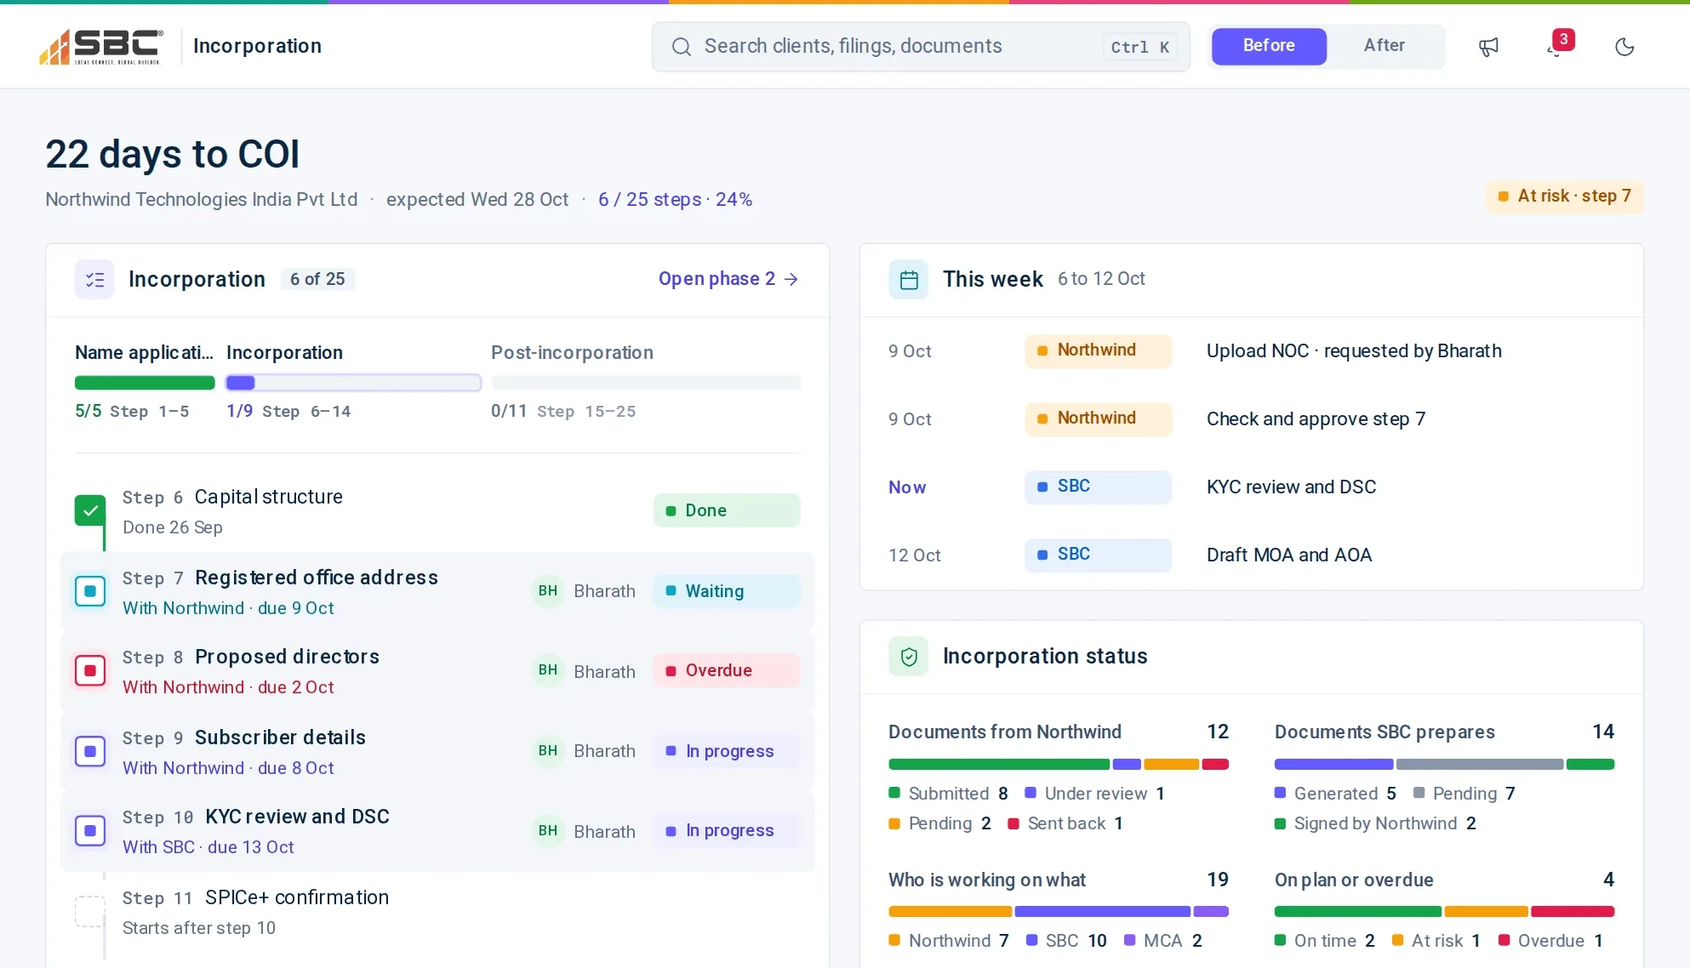
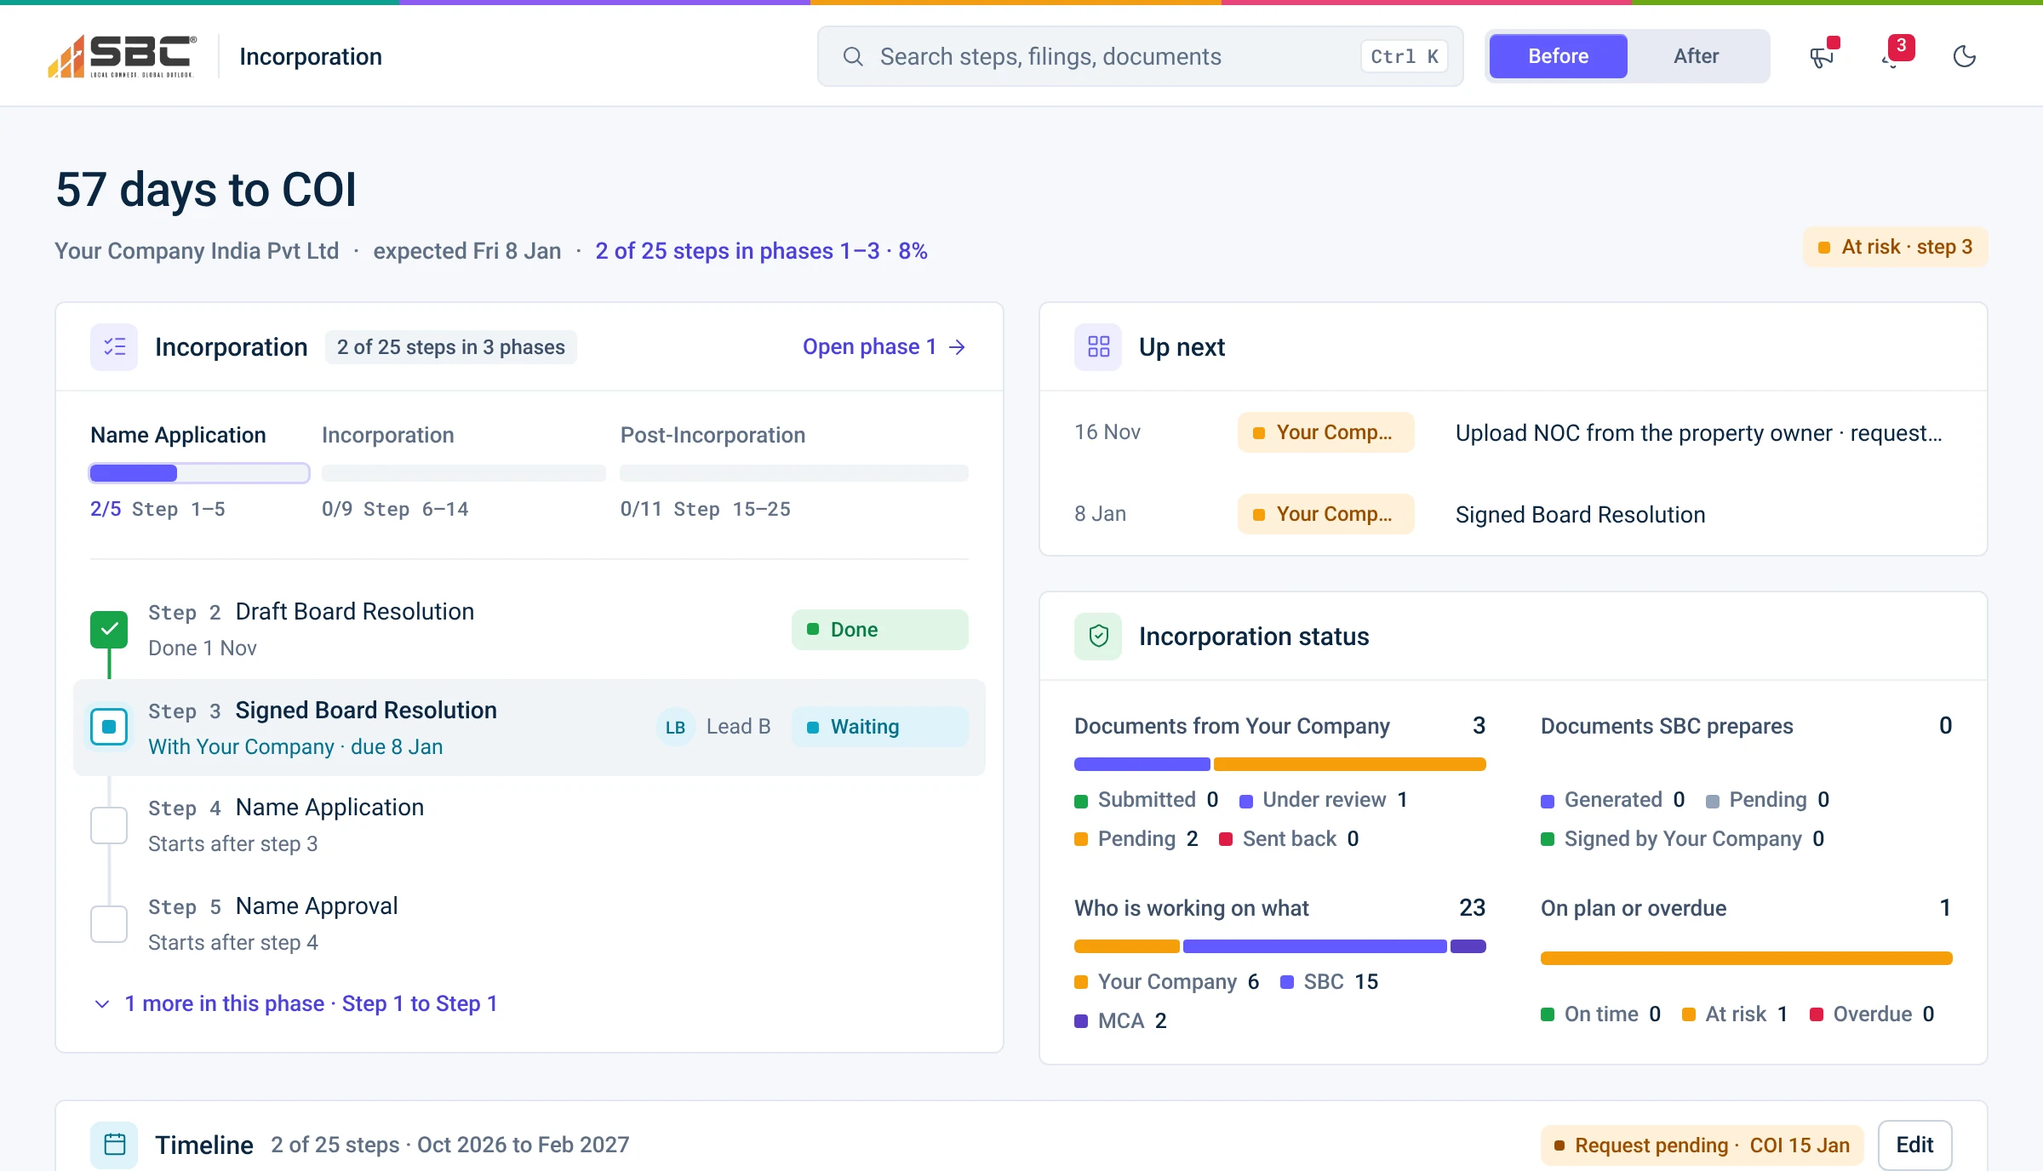
landing page /chandu (#63)
* Landing: remove only the screenshots, keep every section and animation

LP-02 had also removed six sections and rewritten copy. This restores the
incorporation, first 180 days, registrations, compliance calendar, portals
and Ask VCFO sections, the original copy and the hero chips, and removes
only the ten product screenshots. The hero keeps the animated picture in
place of its screenshot; the portal tab descriptions become the tab panels;
the calendar figures and Ask VCFO read as text. LP-01 and LP-03 are kept.

Claude-Session: https://claude.ai/code/session_01KHc5oRkLUo2v3QsnkyYsqN

* Landing: revert LP-01 and LP-03, remove only the screenshots

The owner wants the live landing with only the screenshots removed. This
reverts the light theme and toggle (LP-01) and the per-word hero scenes
(LP-03), and drops the abstract hero picture, so the page keeps its dark
theme and the hero frame stays at its size, empty, with its chips.

Claude-Session: https://claude.ai/code/session_01KHc5oRkLUo2v3QsnkyYsqN

* Landing: put back the FAQ sentence as it reads on the live page

Claude-Session: https://claude.ai/code/session_01KHc5oRkLUo2v3QsnkyYsqN

* Landing: bring the screenshots back without the side navigation

The ten product screenshots return to the landing page as they were on the
live site. The staff sidebar is cropped out of the nine portal screenshots:
the left 17.25% is removed and the bottom trimmed by the same share, so each
[…]

diff --git a/src/components/marketing/landing/LandingScreen.tsx b/src/components/marketing/landing/LandingScreen.tsx
@@ -158,7 +158,7 @@ export function LandingScreen({ fontClass = "" }: { fontClass?: string }) {
             <div className="float float-a" data-app="filings" aria-label="Book a demo to see the filings screen" role="button" aria-haspopup="dialog" tabIndex={0}><span className="pill pill-positive">Filed</span><span className="t"><span>GSTR-3B, September</span><span className="mono">Acknowledgement attached</span></span></div>
             <div className="float float-b" data-app="inc-step-7" aria-label="Book a demo to see step 7, registered office address" role="button" aria-haspopup="dialog" tabIndex={0}><span className="pill pill-highlight">Needs you</span><span className="t"><span>Utility bill for the office</span><span className="mono">Due 9 Oct</span></span></div>
             <div className="frame" data-app="incorporation" aria-label="Book a demo to see the incorporation screen" role="button" aria-haspopup="dialog" tabIndex={0}>
-              <img src="/landing/hero-incorporation.webp" alt="VCFO Suite client portal, incorporation view for Northwind Technologies India Pvt Ltd: 22 days to the Certificate of Incorporation, 6 of 25 steps done, the current steps with who holds each one, this week's tasks and the incorporation status." width="1986" height="1138" fetchPriority="high" />
+              <img src="/landing/hero-incorporation.webp" alt={"VCFO Suite client portal, incorporation view: days to the Certificate of Incorporation, steps done, the current steps with who holds each one, what is up next and the incorporation status."} width="2400" height="1376" fetchPriority="high" />
             </div>
           </div>
         </div>
@@ -426,17 +426,17 @@ export function LandingScreen({ fontClass = "" }: { fontClass?: string }) {
             <div className="reveal">
               <h3 className="h3">The same year, inside the portal</h3>
               <div className="frame" data-app="compliances" aria-label="Book a demo to see the compliance calendar" role="button" aria-haspopup="dialog" tabIndex={0}>
-                <img src="/landing/calendar-client.webp" alt="Client compliance calendar for Northwind Technologies: October grid with TDS, GST, PF and ESI dates, the next deadline GSTR-1 in 3 days, and the coming-up list with status words." width="1655" height="948" />
+                <img src="/landing/calendar-client.webp" alt={"Compliance calendar month view: a grid of the month with each statutory filing on its due date."} width="2268" height="1258" />
               </div>
               <p className="caption"><span className="icon"><Ic><path d="M8 2v3" /><path d="M16 2v3" /><rect x="3" y="3" width="18" height="18" rx="2" /><path d="M3 9h18" /><path d="M8 13h.01" /><path d="M12 13h.01" /><path d="M16 13h.01" /><path d="M8 17h.01" /><path d="M12 17h.01" /><path d="M16 17h.01" /></Ic></span>What the client sees: one month at a time, filtered by regulator, with the next deadline counting down and every filing after it in a list.</p>
             </div>
             <div className="cal-two reveal">
               <figure className="card" data-stagger style={st("--i:0")}>
-                <div className="frame" data-app="filings" aria-label="Book a demo to see the filings screen" role="button" aria-haspopup="dialog" tabIndex={0}><img src="/landing/filings-client.webp" alt="Client filings view for a quarter: donut of filed, due soon, overdue and upcoming, bars by area, and a table with due date, filing, frequency, status and proof." width="1324" height="606" /></div>
+                <div className="frame" data-app="filings" aria-label="Book a demo to see the filings screen" role="button" aria-haspopup="dialog" tabIndex={0}><img src="/landing/filings-client.webp" alt={"Client filings view: filings by month for the financial year, progress by area, and each filing with its status and acknowledgement."} width="2000" height="1622" /></div>
                 <figcaption><b>Filings, with proof.</b> Each row carries its due date, frequency, status word and the acknowledgement once filed. Overdue is a word in red, never a surprise.</figcaption>
               </figure>
               <figure className="card" data-stagger style={st("--i:1")}>
-                <div className="frame" data-app="lead-compliances" aria-label="Book a demo to see the project lead calendar" role="button" aria-haspopup="dialog" tabIndex={0}><img src="/landing/calendar-lead.webp" alt="Project lead's statutory calendar: October deadlines listed by day across GST, income tax and labour, with a month picker and a legend by regulator." width="1324" height="759" /></div>
+                <div className="frame" data-app="lead-compliances" aria-label="Book a demo to see the project lead calendar" role="button" aria-haspopup="dialog" tabIndex={0}><img src="/landing/calendar-lead.webp" alt={"Project lead's compliance calendar month view: the statutory filings of every company on their due dates."} width="1556" height="1262" /></div>
                 <figcaption><b>The firm&apos;s side.</b> The project lead sees every statutory date across every company, grouped by day, with a reminder button on each.</figcaption>
               </figure>
             </div>
@@ -508,19 +508,19 @@ export function LandingScreen({ fontClass = "" }: { fontClass?: string }) {
             </div>
             <div className="tabpanel">
               <div className="frame" role="tabpanel" id="panel-client" aria-labelledby="tab-client" hidden={tab !== "client"} data-app="home">
-                <img src="/landing/portal-client.webp" alt="Client portal home for Northwind Technologies India Pvt Ltd: the home card with five numbers, the incorporation steps with who holds each one, what is needed from Northwind and the timeline." width="1655" height="948" />
+                <img src="/landing/portal-client.webp" alt={"Client portal home: the current stage, the next step with its due date, the journey as a line of steps, and what is needed from the client."} width="2000" height="1146" />
               </div>
               <div className="frame" role="tabpanel" id="panel-lead" aria-labelledby="tab-lead" hidden={tab !== "lead"} data-app="lead-home">
-                <img src="/landing/portal-lead.webp" alt="Project lead Today screen for Bharath: the home card with five numbers, the action queue by company, the inbox and phase progress." width="1655" height="948" />
+                <img src="/landing/portal-lead.webp" alt={"Project lead Today screen: the home card with five numbers, the day's work by company and the inbox."} width="2000" height="1146" />
               </div>
               <div className="frame" role="tabpanel" id="panel-manager" aria-labelledby="tab-manager" hidden={tab !== "manager"} data-app="mgr-home">
-                <img src="/landing/portal-manager.webp" alt="Manager Today screen for Pranay: the home card with five numbers, team tasks with filters, approvals, the task status donut and workload by project lead." width="1655" height="948" />
+                <img src="/landing/portal-manager.webp" alt={"Manager Today screen: the home card with five numbers and the team's day, overdue work first."} width="2000" height="1146" />
               </div>
               <div className="frame" role="tabpanel" id="panel-admin" aria-labelledby="tab-admin" hidden={tab !== "admin"} data-app="admin-home">
-                <img src="/landing/portal-admin.webp" alt="Admin Today screen for Krishna: the home card, the practice areas, fourteen clients with their stage, manager and health, and the managers' load." width="1655" height="948" />
+                <img src="/landing/portal-admin.webp" alt={"Admin Today screen: clients, incorporating, in compliance, overdue and not on track, and the day's work across the firm."} width="2000" height="1146" />
               </div>
               <div className="frame" role="tabpanel" id="panel-super" aria-labelledby="tab-super" hidden={tab !== "super"} data-app="super-home">
-                <img src="/landing/portal-super.webp" alt="Super admin overview for Mithilesh: the home card with the firm's numbers, the practice areas side by side, top risks and clients needing attention." width="1655" height="948" />
+                <img src="/landing/portal-super.webp" alt={"Super admin overview: the firm's numbers, incorporation progress, registrations and this month's compliances."} width="2000" height="1146" />
               </div>
             </div>
           </div>
@@ -533,7 +533,7 @@ export function LandingScreen({ fontClass = "" }: { fontClass?: string }) {
           <div className="ask">
             <div className="reveal">
               <div className="panel" data-app="home-chat" aria-label="Book a demo to try Ask VCFO" role="button" aria-haspopup="dialog" tabIndex={0}>
-                <img src="/landing/ask-vcfo.webp" alt="Ask VCFO panel inside the client portal, answering from Northwind's project data, with suggested questions." width="779" height="1150" />
+                <img src="/landing/ask-vcfo.webp" alt={"Ask VCFO panel inside the client portal, answering from the client's own project data, with suggested questions."} width="760" height="1120" />
               </div>
             </div>
             <div className="reveal">

diff --git a/src/components/marketing/landing/landing.css b/src/components/marketing/landing/landing.css
@@ -72,8 +72,8 @@ html:has(.lp) { scroll-behavior: smooth; -webkit-text-size-adjust: 100%; overflo
 .lp .lead { font-size: 19px; line-height: 1.55; color: var(--lp-ink-muted); max-width: 56ch; }
 .lp .body { font-size: 16px; line-height: 1.65; color: var(--lp-ink-muted); max-width: 58ch; }
 .lp .mono { font-family: var(--lp-font-mono); font-size: 11px; font-weight: 500; letter-spacing: 0.06em; text-transform: uppercase; color: var(--lp-ink-faint); }
-.lp .section { position: relative; padding: 112px 0; overflow-x: clip; scroll-margin-top: 68px; }
-.lp .section-head { margin-bottom: 56px; }
+.lp .section { position: relative; padding: 72px 0; overflow-x: clip; scroll-margin-top: 68px; }
+.lp .section-head { margin-bottom: 40px; }
 .lp .section-head .body { margin-top: 18px; }
 .lp .stage { display: inline-flex; align-items: center; gap: 10px; height: 28px; padding: 0 12px 0 6px; border-radius: 999px; border: 1px solid var(--lp-line-soft); background: var(--lp-raised); font-size: 12px; font-weight: 600; color: var(--lp-ink-muted); margin-bottom: 20px; }
 .lp .stage b { display: inline-flex; align-items: center; justify-content: center; width: 18px; height: 18px; border-radius: 999px; background: var(--lp-brand); color: var(--lp-on-brand); font-family: var(--lp-font-mono); font-size: 11px; font-weight: 500; }
@@ -195,8 +195,8 @@ html:has(.lp) { scroll-behavior: smooth; -webkit-text-size-adjust: 100%; overflo
 }
 .lp .story { display: grid; grid-template-columns: minmax(0, 5fr) minmax(0, 7fr); gap: 64px; align-items: start; }
 .lp .story-steps { display: grid; gap: 8px; }
-.lp .story-step { padding: 28px 0 28px 28px; border-left: 2px solid var(--lp-line); min-height: 52vh; display: flex; flex-direction: column; justify-content: center; transition: border-color 300ms ease; }
-.lp .story-step:first-child { min-height: 40vh; }
+.lp .story-step { padding: 28px 0 28px 28px; border-left: 2px solid var(--lp-line); min-height: 34vh; display: flex; flex-direction: column; justify-content: center; transition: border-color 300ms ease; }
+.lp .story-step:first-child { min-height: 24vh; }
 .lp .story-step .h3 { color: var(--lp-ink-faint); transition: color 300ms ease; font-size: 22px; letter-spacing: -0.01em; }
 .lp .story-step p { margin-top: 10px; font-size: 15px; line-height: 1.6; color: var(--lp-ink-faint); max-width: 44ch; transition: color 300ms ease; }
 .lp .story-step .whos { display: flex; gap: 6px; margin-top: 14px; opacity: 0.45; transition: opacity 300ms ease; }
@@ -396,6 +396,10 @@ html:has(.lp) { scroll-behavior: smooth; -webkit-text-size-adjust: 100%; overflo
 }
 .lp .cal-ui { margin-top: 64px; }
 .lp .cal-ui .h3 { margin-bottom: 16px; }
+/* The client calendar sits beside its caption, at a size that keeps the screenshot sharp. */
+.lp .cal-ui > .reveal:first-child { display: grid; grid-template-columns: minmax(0, 7fr) minmax(0, 4fr); column-gap: 40px; align-items: center; }
+.lp .cal-ui > .reveal:first-child .h3 { grid-column: 1 / -1; }
+.lp .cal-ui > .reveal:first-child .caption { margin-top: 0; font-size: 15px; line-height: 1.6; }
 .lp .cal-two { display: grid; grid-template-columns: 1fr 1fr; gap: 16px; margin-top: 16px; }
 .lp .cal-two figure { margin: 0; padding: 10px 10px 4px; }
 .lp .cal-two .frame { border-radius: var(--lp-r-lg); box-shadow: none; }
@@ -484,7 +488,7 @@ html:has(.lp) { scroll-behavior: smooth; -webkit-text-size-adjust: 100%; overflo
 .lp .faq summary .icon { color: var(--lp-ink-faint); transition: transform 240ms var(--lp-ease); }
 .lp .faq details[open] summary .icon { transform: rotate(180deg); }
 .lp .faq .a { padding: 0 0 22px; font-size: 15px; line-height: 1.65; color: var(--lp-ink-muted); max-width: 62ch; }
-.lp .cta { text-align: center; padding: 140px 0; overflow: hidden; }
+.lp .cta { text-align: center; padding: 96px 0; overflow: hidden; }
 .lp .cta .glow-a { width: 900px; height: 600px; left: 50%; top: 50%; transform: translate(-50%, -50%); }
 .lp .cta .big { position: relative; font-size: clamp(2.1rem, 4.6vw, 3.6rem); line-height: 1.12; letter-spacing: -0.025em; font-weight: 600; }
 .lp .cta .big span { display: block; opacity: 0; transform: translateY(14px); transition: opacity 700ms var(--lp-ease), transform 700ms var(--lp-ease); transition-delay: calc(var(--i) * 140ms); }
@@ -545,6 +549,8 @@ html:has(.lp) { scroll-behavior: smooth; -webkit-text-size-adjust: 100%; overflo
   .lp .sg { opacity: 1 !important; }
   .lp .split, .lp .ask, .lp .comply-grid { grid-template-columns: 1fr; gap: 40px; }
   .lp .cal-two { grid-template-columns: 1fr; }
+  .lp .cal-ui > .reveal:first-child { grid-template-columns: 1fr; }
+  .lp .cal-ui > .reveal:first-child .caption { margin-top: 20px; }
   .lp .trust { grid-template-columns: 1fr 1fr; }
   .lp .footer-grid { grid-template-columns: 1fr 1fr; }
   .lp .tab-head { grid-template-columns: 1fr; gap: 16px; }
@@ -576,7 +582,7 @@ html:has(.lp) { scroll-behavior: smooth; -webkit-text-size-adjust: 100%; overflo
 }
 @media (max-width: 639px) {
   .lp { --lp-gutter: 16px; }
-  .lp .section { padding: 72px 0; }
+  .lp .section { padding: 48px 0; }
   .lp .hero { padding: 48px 0 64px; }
   .lp .hero-copy .h1 .swap-line { white-space: normal; }
   .lp .hero-ctas .btn { width: 100%; }

diff --git a/docs/context/STATE.md b/docs/context/STATE.md
@@ -320,7 +320,7 @@ Built and tested (unit tests, typecheck, and the flows below on a local build):
 - **Preview and download icons:** each row of the "SPICe+ attachments" card on the staff project page has an eye (preview) and a download icon over that row's own files, taken from the download catalog (`src/lib/document-downloads/spice-attachment-files.ts`). One file downloads as itself; several come as a ZIP. A row with no file yet has both icons off, and the tip says why. The project's Documents tab has the same eye. Both open the client portal's shared `DocViewer`, which on a staff page mounts in its own `.cp` host and covers the whole window. Files are served for preview by `GET /api/engagements/[id]/document-downloads/file?key=…`, with the same roles and catalog as the pop-up.
 - **One download button (12 Nov):** the project header now has a single "Download documents" button; "Download project (ZIP)" is gone. The pop-up's top row, "Whole project (ZIP)", downloads every ready document, upload and project record in one click (named `Project_<Client>_<date>.zip`). Below it, sections start closed and show "x of y ready", nothing is ticked when it opens, and only the Folders/Flat layout is remembered. "Preview all" (whole project) and "Preview" (the chosen files) open the shared `DocViewer`; the pop-up hides while it is open and comes back with the same ticks.
 - **Download documents (staff only):** a "Download documents" button on the project header (Lead, Manager, Admin, Super admin) and on the document pack page opens one pop-up. It shows every document by SPICe+ Part A, Part B, After incorporation and Project records (the PR-02 Excel files: answers, directors, subscribers, audit log). Part B is split into constitution, one folder per director, declarations, and each step's uploads. It has quick picks (each part, each director, uploads only, everything), Word files only for now (records in Excel), and folders or one flat folder. One file downloads as itself. Up to 25 files with no more than 5 uploads stream back as a ZIP; anything larger is made in the background with a link in the bell. Names follow GL-08. The code is in `src/lib/document-downloads/` and `app/api/engagements/[id]/document-downloads`, and access runs through `getDocPackInputs`, so a Lead only reaches their own engagements. The old "Download ready as .zip" button on the pack page is replaced; its route stays.
-- **Landing:** the live landing with its ten product screenshots (2026-11-12). The staff sidebar is cropped out of the nine portal screenshots (the left 17.25%, with the bottom trimmed by the same share so each frame keeps its proportions); Ask VCFO had no sidebar and is unchanged. LP-01 is back with dark as the default: a sun / moon toggle switches to the light theme, the choice is kept on the device, and the script in `app/page.tsx` applies it before the first paint. LP-02 and LP-03 stay reverted at the owner's request. To refresh a screenshot, crop it the same way and update its width and height in `LandingScreen.tsx`.
+- **Landing:** dark by default with a light toggle (LP-01); LP-02 and LP-03 reverted at the owner's request. The ten product screenshots (2026-11-12) were retaken from a local app whose demo data is anonymous: no real company, person, address or identifier (companies read "Your Company" and "Company B" onwards, staff "Lead A", "Manager A", "Admin A", "Partner", references are zeroed). The SBC logo in the app's top bar stays; the sidebar is never shown; the calendars show the month grid alone. How to retake them: `scripts/landing-screenshots/README.md`. Section padding is 72px (48px on phones) and the incorporation story steps are 34vh.
 
 Notes:
 - **Background exports (GL-06, PR-02)** run in `after()` (`src/lib/exports/background-export.ts`). The file is kept in `export_files` and S3 `exports/` for 30 days, and only its maker can download it, through `/api/exports/[id]`. No migration was needed.

diff --git a/scripts/landing-screenshots/README.md b/scripts/landing-screenshots/README.md
@@ -1,0 +1,35 @@
+# Landing page screenshots
+
+The ten product screenshots on the landing page (`public/landing/*.webp`) are taken from a local
+copy of the app whose demo data has been made anonymous. No screenshot may show a real client,
+person, address or identifier. The SBC logo in the app's top bar stays; the sidebar never shows.
+
+## Retaking them
+
+1. Start a **local** database and load the demo data (`npm run infra:up`, `npm run db:migrate`,
+   `npm run db:seed`, `npm run db:seed-demo`). The migrations need the `pgvector` extension.
+2. Make the data anonymous. The script refuses any database that is not on localhost.
+
+   ```bash
+   DATABASE_URL=postgresql://vcfo:vcfo_local_dev@localhost:5432/vcfo node scripts/landing-screenshots/sanitize.mjs
+   ```
+
+   It rewrites every text and JSON column: company names become "Your Company" (the client the
+   landing follows) and "Company B" onwards; staff become "Lead A", "Manager A", "Admin A" and
+   "Partner"; client contacts become "Contact 1" onwards; directors become "Director" plus a letter;
+   addresses, PAN, CIN, LLPIN, DIN, phone numbers and short references become sample values.
+3. Run the app (`npm run dev`, with `node scripts/cp-css.mjs` first for the client portal CSS), then
+   capture:
+
+   ```bash
+   node scripts/landing-screenshots/capture.cjs http://localhost:3000 /tmp/landing-shots
+   ```
+
+   Each shot is taken at twice the pixel density. The window is widened by the sidebar's width and
+   the sidebar is cropped off, so the top bar and logo stay. The two calendars are cropped to the
+   month grid alone, and the Ask VCFO shot is the chat panel alone.
+4. Look at every image for a name, address or number that should not be there before you use it.
+   Convert each PNG to WebP (quality 88) into `public/landing/`, and set the matching `width`,
+   `height` and alt text in `src/components/marketing/landing/LandingScreen.tsx`.
+
+New demo data with new names needs a line in `sanitize.mjs` before the next capture.
